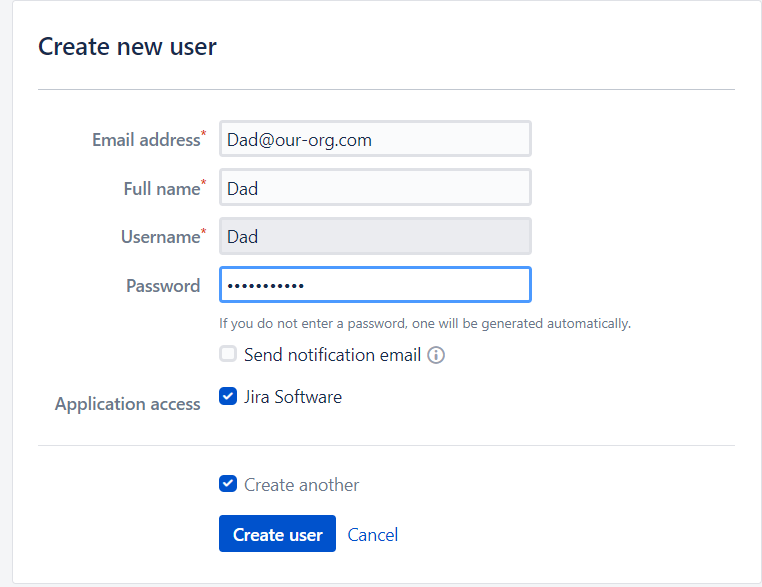
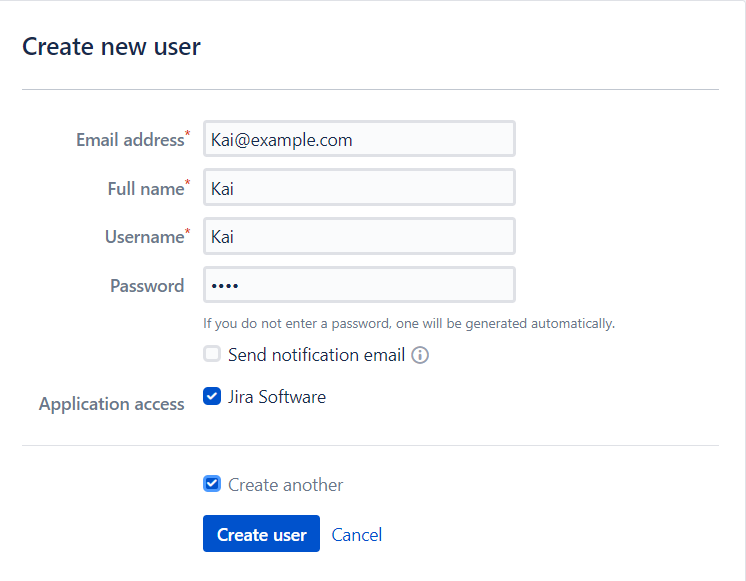
update user creation images

diff --git a/content/10_Getting_Started/4_create_user.md b/content/10_Getting_Started/4_create_user.md
@@ -15,7 +15,6 @@ This open the **"New User"** Page.
 
 Now let fill the information needed to create our user **"Kai"**
 
-Replace image !
 ![User Management Menu](/images/10_Getting_Started/New_User_Page_filled.png)
 
 Tick the **Create Another** option at the bottom of the page,
@@ -24,5 +23,4 @@ And create another user name **Quinn**
 At the end our "User Management" page should look like this,
 With all the of our Users.
 
-Replace image !
 ![User Management Menu](/images/10_Getting_Started/User_mgmt_with_users.png)
